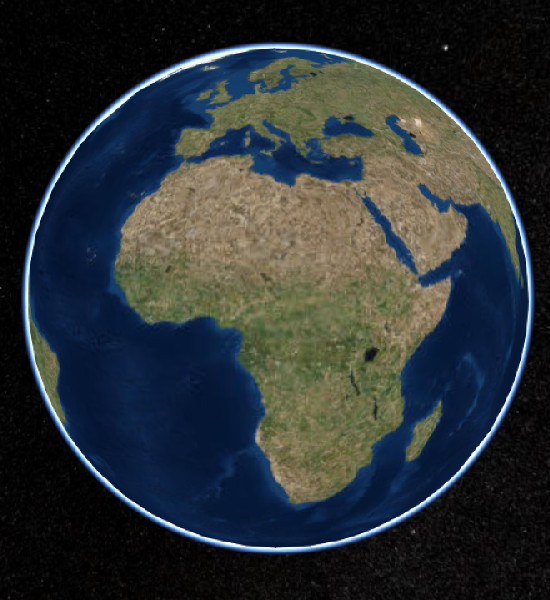
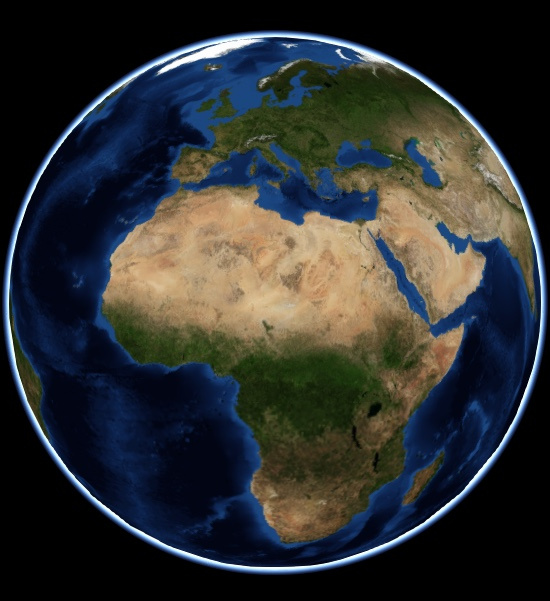
prerelease updates

diff --git a/index.html b/index.html
@@ -134,8 +134,8 @@
                                 <div class="overflow m-t-30">
                                     <div class="list-view">
                                         <ul class="nav">
-                                            <li><a class="btn-mask" href="#">ABOUT</a></li>
-                                            <li><a class="btn-mask" href="#">PARTNERS</a></li>
+                                            <li><a class="btn-mask" href="#services-section">ABOUT</a></li>
+                                            <li><a class="btn-mask" href="#portfolio-section">PROJECT</a></li>
                                             <li><a class="btn-mask" href="#contact-us-section">CONTACT</a></li>
                                         </ul>
                                     </div>
@@ -185,7 +185,7 @@
         <!--Start: 2nd Section  
             - SERVICES PAGE 
         ====================================-->
-        <div class=" section section-item combine-section hide-overlay overflow semi-dark-background" id="services-section">
+        <div class="section section-item combine-section hide-overlay overflow semi-dark-background" id="services-section">
             <div class="inner-container services-section ">
                  <div class="container">
                     <div class="row">
@@ -446,7 +446,7 @@
                                             <div class="col-xs-10 col-xs-offset-1">
                                                 <div class="row">
                                                     <div class="image text-center">
-                                                        <img src="images/globe-1.png" alt="Features Image">
+                                                        <img src="images/globe-1.jpg" alt="NASA Bluemarble">
                                                     </div>
                                                 </div>
                                             </div>
@@ -467,7 +467,7 @@
                                                 <div class="link-list overflow wow">
                                                     <div class="link one overflow">
                                                         <div class="inner">
-                                                            <a class="btn btn-project-detail right-icon btn-mask" href="#" data-element="project-detail">PROJECT DETAILS <i class="icon icon-arrow-right"></i></a>
+                                                            <a class="btn btn-project-detail right-icon btn-mask" href="#" data-element="project-detail">DETAILS <i class="icon icon-arrow-right"></i></a>
                                                         </div>
                                                     </div>
                                                     <div class="link two overflow">
@@ -599,7 +599,7 @@
                                                 <div class="link-list overflow wow">
                                                     <div class="link one overflow">
                                                         <div class="inner">
-                                                            <a class="btn btn-project-detail right-icon btn-mask" href="#" data-element="project-detail">PROJECT DETAILS <i class="icon icon-arrow-right"></i></a>
+                                                            <a class="btn btn-project-detail right-icon btn-mask" href="#" data-element="project-detail">DETAILS <i class="icon icon-arrow-right"></i></a>
                                                         </div>
                                                     </div>
                                                     <div class="link two overflow">
@@ -618,19 +618,19 @@
                                                             <div class="project-slider owl-carousel">
 
                                                                 <div class="item">
-                                                                    <img src="images/features-3.jpg" alt="Slider Images" class="img-responsive">
+                                                                    <img src="images/slides/imagery-1.jpg" alt="Bing Maps" class="img-responsive">
                                                                 </div>
                                                                 <div class="item">
-                                                                    <img src="images/features-4.jpg" alt="Slider Images" class="img-responsive">
+                                                                    <img src="images/slides/imagery-2.jpg" alt="Gebco" class="img-responsive">
                                                                 </div>
                                                                 <div class="item">
-                                                                    <img src="images/features-5.jpg" alt="Slider Images" class="img-responsive">
+                                                                    <img src="images/slides/imagery-3.jpg" alt="Stamen Watercolor" class="img-responsive">
                                                                 </div>
                                                                 <div class="item">
-                                                                    <img src="images/features-6.jpg" alt="Slider Images" class="img-responsive">
+                                                                    <img src="images/slides/imagery-4.jpg" alt="NASA Earth by Night" class="img-responsive">
                                                                 </div>
                                                                 <div class="item">
-                                                                    <img src="images/features-7.jpg" alt="Slider Images" class="img-responsive">
+                                                                    <img src="images/slides/imagery-5.jpg" alt="Digital Globe" class="img-responsive">
                                                                 </div>
                                                                 
                                                             </div>
@@ -647,19 +647,18 @@
                                                         <div class="col-md-6 col-sm-12 vertical-middle project-detail-content">
                                                             <div class="overflow">
                                                                 <div class="heading-outer">
-                                                                    <h2 class="heading">Project Two</h2>
+                                                                    <h2 class="heading">Imagery</h2>
                                                                 </div>
                                                             </div> <!-- End: .overflow -->
                                                             <div class="overflow">
                                                                 <ul class="nav list">
-                                                                    <li><p class="sub-heading">BRANDING &AMP; DESIGN</p></li>
-                                                                    <li><p class="sub-heading">MARCH 2016</p></li>
+                                                                    <li><p class="sub-heading">Base Maps from various providers</p></li>
                                                                 </ul>
                                                             </div> <!-- End: .overflow -->
                                                             <div class="overflow">
                                                                 <div class="pera-outer m-t-30">
-                                                                    <p>Having a baby can be a nerve wracking experience for new parents – not the nine months of pregnancy, I’m talking about after the infant is brought home from the hospital. It’s always the same thing, by the time they have their third child they have it all figured out, but with number one it’s a learning thing.</p>
-                                                                    <p>Baby monitors help you hear your baby’s needs without you having to be in the room with the baby. Some baby monitors are portable, or “mobile” and are small enough that you can carry it in your pocket as you do your daily chores around the house. Depending on your price range it’s best to have a base unit that plugs into the wall. The receiving unit can be like your portable phone, you can carry it around with you, and plug it back into the base unit to be recharged.</p>
+                                                                    <p>Different Base Maps selectable from varius Providers like Bing Maps, Openstreetmap, Stamen or Digital Globe.</p>
+                                                                    <p>Every Base Map is zoomable and has even more details as you zoom in.</p>
                                                                 </div>
                                                             </div> <!-- End: .overflow -->
                                                             <div class="overflow">
@@ -699,7 +698,7 @@
                                             <div class="col-xs-10 col-xs-offset-1">
                                                 <div class="row">
                                                     <div class="image text-center">
-                                                        <img src="images/overlays-1.png" alt="Thematic Layers">
+                                                        <img src="images/layers-1.jpg" alt="Geological Layers">
                                                     </div>
                                                 </div>
                                             </div>
@@ -720,7 +719,7 @@
                                                 <div class="link-list overflow wow">
                                                     <div class="link one overflow">
                                                         <div class="inner">
-                                                            <a class="btn btn-project-detail right-icon btn-mask" href="#" data-element="project-detail">PROJECT DETAILS <i class="icon icon-arrow-right"></i></a>
+                                                            <a class="btn btn-project-detail right-icon btn-mask" href="#" data-element="project-detail">DETAILS <i class="icon icon-arrow-right"></i></a>
                                                         </div>
                                                     </div>
                                                     <div class="link two overflow">
@@ -765,19 +764,17 @@
                                                         <div class="col-md-6 col-sm-12 vertical-middle project-detail-content">
                                                             <div class="overflow">
                                                                 <div class="heading-outer">
-                                                                    <h2 class="heading">Project Three</h2>
+                                                                    <h2 class="heading">LAYERS</h2>
                                                                 </div>
                                                             </div> <!-- End: .overflow -->
                                                             <div class="overflow">
                                                                 <ul class="nav list">
-                                                                    <li><p class="sub-heading">BRANDING &AMP; DESIGN</p></li>
-                                                                    <li><p class="sub-heading">MARCH 2016</p></li>
+                                                                    <li><p class="sub-heading">THEMATIC LAYERS</p></li>
                                                                 </ul>
                                                             </div> <!-- End: .overflow -->
                                                             <div class="overflow">
                                                                 <div class="pera-outer m-t-30">
-                                                                    <p>Having a baby can be a nerve wracking experience for new parents – not the nine months of pregnancy, I’m talking about after the infant is brought home from the hospital. It’s always the same thing, by the time they have their third child they have it all figured out, but with number one it’s a learning thing.</p>
-                                                                    <p>Baby monitors help you hear your baby’s needs without you having to be in the room with the baby. Some baby monitors are portable, or “mobile” and are small enough that you can carry it in your pocket as you do your daily chores around the house. Depending on your price range it’s best to have a base unit that plugs into the wall. The receiving unit can be like your portable phone, you can carry it around with you, and plug it back into the base unit to be recharged.</p>
+                                                                    <p>Layers to a lot of different themes like Spiritual Places and environmental parameters.</p>
                                                                 </div>
                                                             </div> <!-- End: .overflow -->
                                                             <div class="overflow">
@@ -868,68 +865,6 @@
 
                             </div> <!-- End: .overflow -->
                         </div> <!-- End: .col-xs-12 -->
-
-                        <div class="col-md-8 col-md-offset-2 col-sm-10 col-sm-offset-1 overflow">
-                            <div class="testimonial-container wow">
-                                <div class="testimonial-wrapper pagination-style-1 owl-carousel">
-                                    <!-- SLIDES -->
-                                    <div class="item">
-                                        <div class="overflow">
-                                            <div class="image-outer">
-                                                <img src="images/testimonial/1.jpg">
-                                            </div>
-                                        </div>
-                                        <div class="overflow m-t-40">
-                                            <div class="text-outer">
-                                                <blockquote>“These cartridges can be replaced by the printer ink of similar brand. Compatible Inkjet Cartridge will help you to make extra-ordinary savings with money back guarantee. As soon as the cartridge gets empty the ink that it contains begins to dry”</blockquote>
-                                            </div>
-                                        </div>
-                                        <div class="overflow m-t-40 m-b-30">
-                                            <div class="profile-outer">
-                                                <span class="name">ANTHONY WATKINS</span>
-                                                <span class="position">VP of Product, VISA</span>
-                                            </div>
-                                        </div>
-                                    </div> <!-- End: .swiper-slider -->
-                                    <div class="item">
-                                        <div class="overflow">
-                                            <div class="image-outer">
-                                                <img src="images/testimonial/2.jpg">
-                                            </div>
-                                        </div>
-                                        <div class="overflow m-t-40">
-                                            <div class="text-outer">
-                                                <blockquote>“These cartridges can be replaced by the printer ink of similar brand. Compatible Inkjet Cartridge will help you to make extra-ordinary savings with money back guarantee. As soon as the cartridge gets empty the ink that it contains begins to dry”</blockquote>
-                                            </div>
-                                        </div>
-                                        <div class="overflow m-t-40 m-b-30">
-                                            <div class="profile-outer">
-                                                <span class="name">ANTHONY WATKINS</span>
-                                                <span class="position">VP of Product, VISA</span>
-                                            </div>
-                                        </div>
-                                    </div> <!-- End: .swiper-slider -->
-                                    <div class="item">
-                                        <div class="overflow">
-                                            <div class="image-outer">
-                                                <img src="images/testimonial/2.jpg">
-                                            </div>
-                                        </div>
-                                        <div class="overflow m-t-40">
-                                            <div class="text-outer">
-                                                <blockquote>“These cartridges can be replaced by the printer ink of similar brand. Compatible Inkjet Cartridge will help you to make extra-ordinary savings with money back guarantee. As soon as the cartridge gets empty the ink that it contains begins to dry”</blockquote>
-                                            </div>
-                                        </div>
-                                        <div class="overflow m-t-40 m-b-30">
-                                            <div class="profile-outer">
-                                                <span class="name">ANTHONY WATKINS</span>
-                                                <span class="position">VP of Product, VISA</span>
-                                            </div>
-                                        </div>
-                                    </div> <!-- End: .swiper-slider -->
-                                </div> <!-- End: .swiper-wrapper -->
-                            </div> <!-- End: .testimonials-container -->
-                        </div> <!-- End: .col-xs-12 -->
                     </div> <!-- End: .row -->
                 </div> <!-- End: .container -->
             </div> <!-- End: .inner-container -->
@@ -970,11 +905,12 @@
 
                         <div class="col-sm-12 grid-item m-t-30">
                             <div class="row">
+
                                 <div class="col-md-3 col-sm-6 col-xs-12 each-item overflow text-center relative wow">
                                     <div class="item-inner overflow absolute">
                                         <div class="profile-outer center">
                                             <div class="profile-image">
-                                                <img src="images/testimonial/2.jpg" alt="Team Member" class="">
+                                                <img src="images/contact/joerg.jpg" alt="Team Member" class="">
                                             </div>
                                             <div class="profile-content">
                                                 <span class="name">JOERG ROTH</span>
@@ -992,7 +928,7 @@
 
                                         <div class="profile-outer center">
                                             <div class="profile-image">
-                                                <img src="images/testimonial/3.jpg" alt="Team Member" class="">
+                                                <img src="images/contact/simone.jpg" alt="Team Member" class="">
                                             </div>
                                             <div class="profile-content">
                                                 <span class="name">SIMONE ROTH</span>
@@ -1004,6 +940,25 @@
                                         </div>
                                     </div>
                                 </div> <!-- End: .each-item -->
+
+                                <div class="col-md-3 col-sm-6 col-xs-12 each-item overflow text-center relative wow">
+                                    <div class="item-inner overflow absolute">
+
+                                        <div class="profile-outer center">
+                                            <div class="profile-image">
+                                                <img src="images/contact/www.png" alt="Team Member" class="">
+                                            </div>
+                                            <div class="profile-content">
+                                                <span class="name">WWW</span>
+                                                <span class="position">Knowledge Base</span>
+                                            </div>
+                                        </div>
+                                        <div class="content-detail">
+                                            <p>Knowledge Base for almost everything</p>
+                                        </div>
+                                    </div>
+                                </div> <!-- End: .each-item -->
+
                             </div>
                         </div> <!-- End: .col-xs-12 -->
                     </div> <!-- End: .row -->
@@ -1031,12 +986,12 @@
                                 </div>
                                 <div class="overflow">
                                     <div class="section-heading-outer m-b-15">
-                                        <p class="sub-heading wow">CONTACT US</p>
+                                        <p class="sub-heading wow">CONTACT</p>
                                     </div> 
                                 </div>
                                 <div class="overflow">
                                     <div class="section-heading-outer p-l-50 p-r-50">
-                                        <h2 class="section-heading wow">Let's talk about the project</h2>
+                                        <h2 class="section-heading wow">Contact the Team</h2>
                                     </div>
                                 </div>
                             </div>
@@ -1107,7 +1062,7 @@
                                         <!-- Subject Button -->
                                         <div class="btn-form text-center col-xs-12">
                                             <div class="button-outer relative">
-                                                <button class="btn btn-fill right-icon">GET IN TOUCH <i class="icon icon-arrow-right"></i></button>
+                                                <button class="btn btn-fill right-icon">SEND EMAIL <i class="icon icon-arrow-right"></i></button>
                                             </div>
                                         </div>
                                     </form>
@@ -1137,17 +1092,17 @@
                                                     <ul class="nav">
                                                         <li class="overflow">
                                                             <div class="li-inner wow">
-                                                                Herzogenmuehelstrasse 140
+                                                                Joerg Roth
                                                             </div>
                                                         </li>
                                                         <li class="overflow">
                                                             <div class="li-inner wow">
-                                                                8051 Zuerich
+                                                                Herzogenmuehlestrasse 140
                                                             </div>
                                                         </li>
                                                         <li class="overflow">
                                                             <div class="li-inner wow">
-                                                                <a href="callto:2126600744" class="btn-mask">212 660 0744</a>
+                                                                CH-8051 Zuerich
                                                             </div>
                                                         </li>
                                                     </ul>
@@ -1167,10 +1122,9 @@
                                                         <li class="overflow">
                                                             <div class="li-inner wow">
                                                                 <ul class="nav social-icon">
-                                                                    <li><a href="#"><i class="fa fa-facebook fa-2x"></i></a></li>
-                                                                    <li><a href="#"><i class="fa fa-twitter fa-2x"></i></a></li>
-                                                                    <li><a href="#"><i class="fa fa-github fa-2x"></i></a></li>
-                                                                    <li><a href="#"><i class="fa fa-linkedin fa-2x"></i></a></li>
+                                                                    <li><a href="https://www.facebook.com/profile.php?id=100014604464376"><i class="fa fa-facebook fa-2x"></i></a></li>
+                                                                    <li><a href="https://twitter.com/EarthAndData"><i class="fa fa-twitter fa-2x"></i></a></li>
+                                                                    <li><a href="https://github.com/leylines"><i class="fa fa-github fa-2x"></i></a></li>
                                                                 </ul>
                                                             </div>
                                                         </li>
